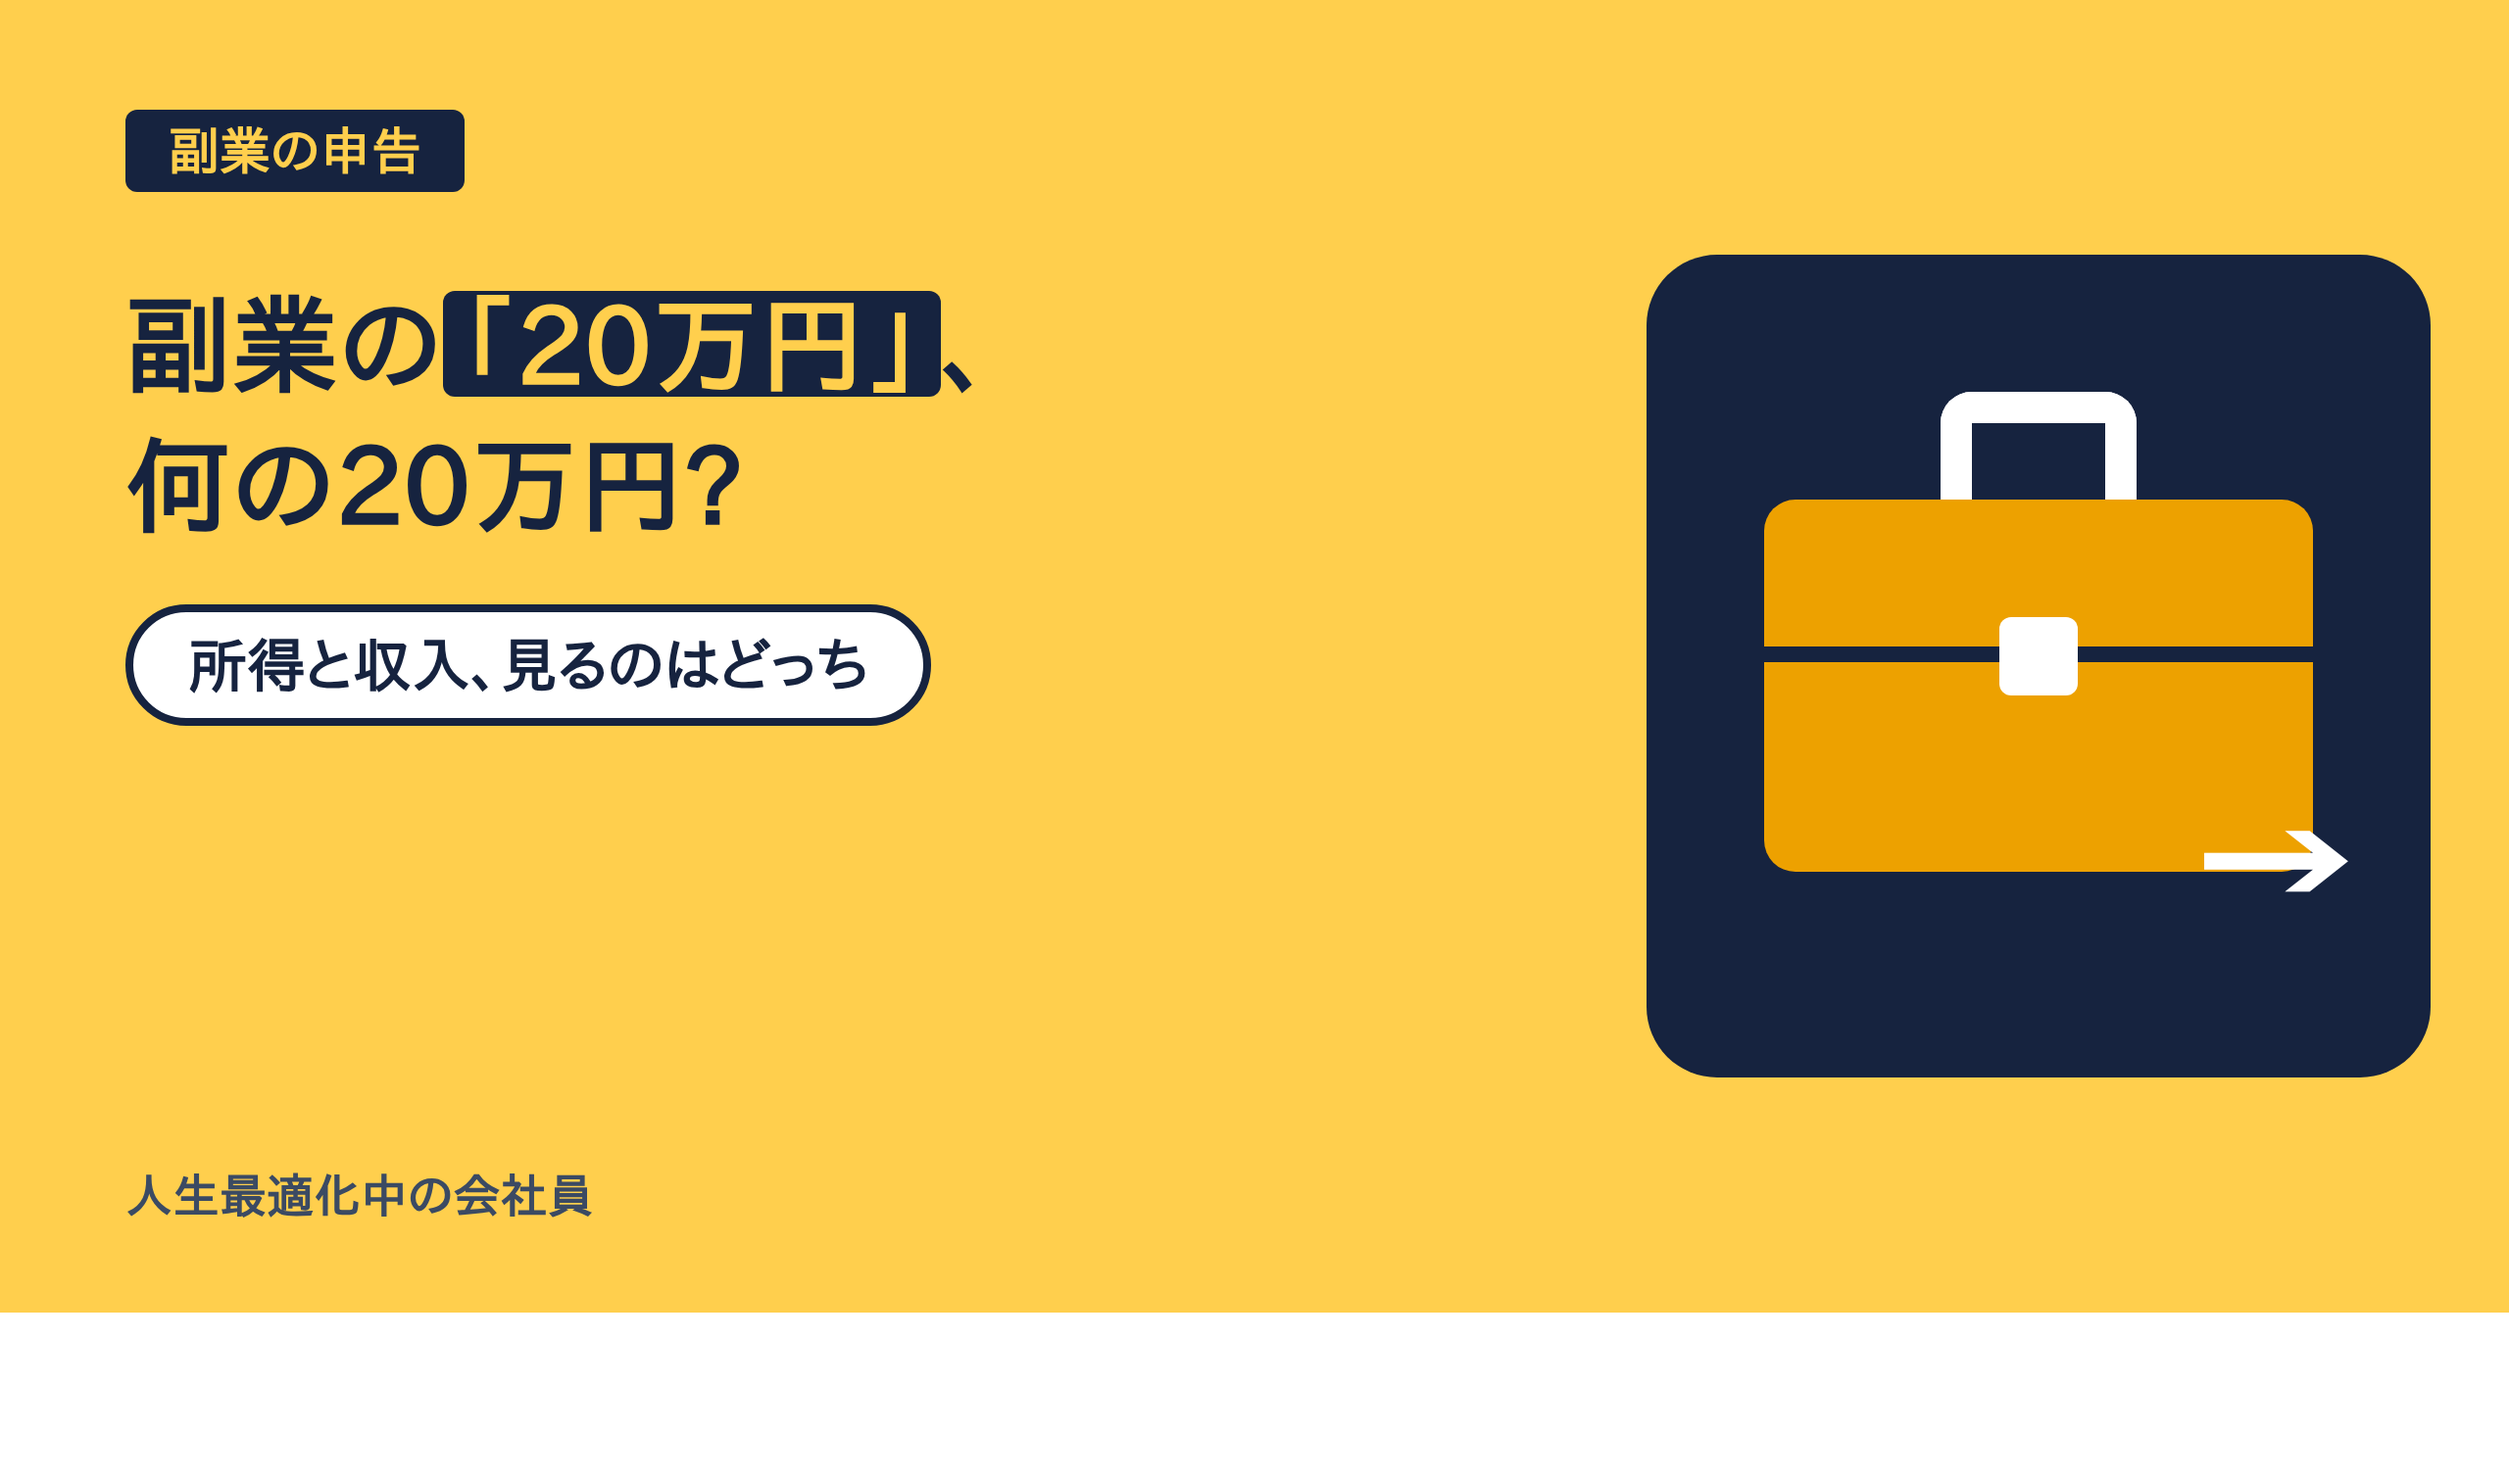
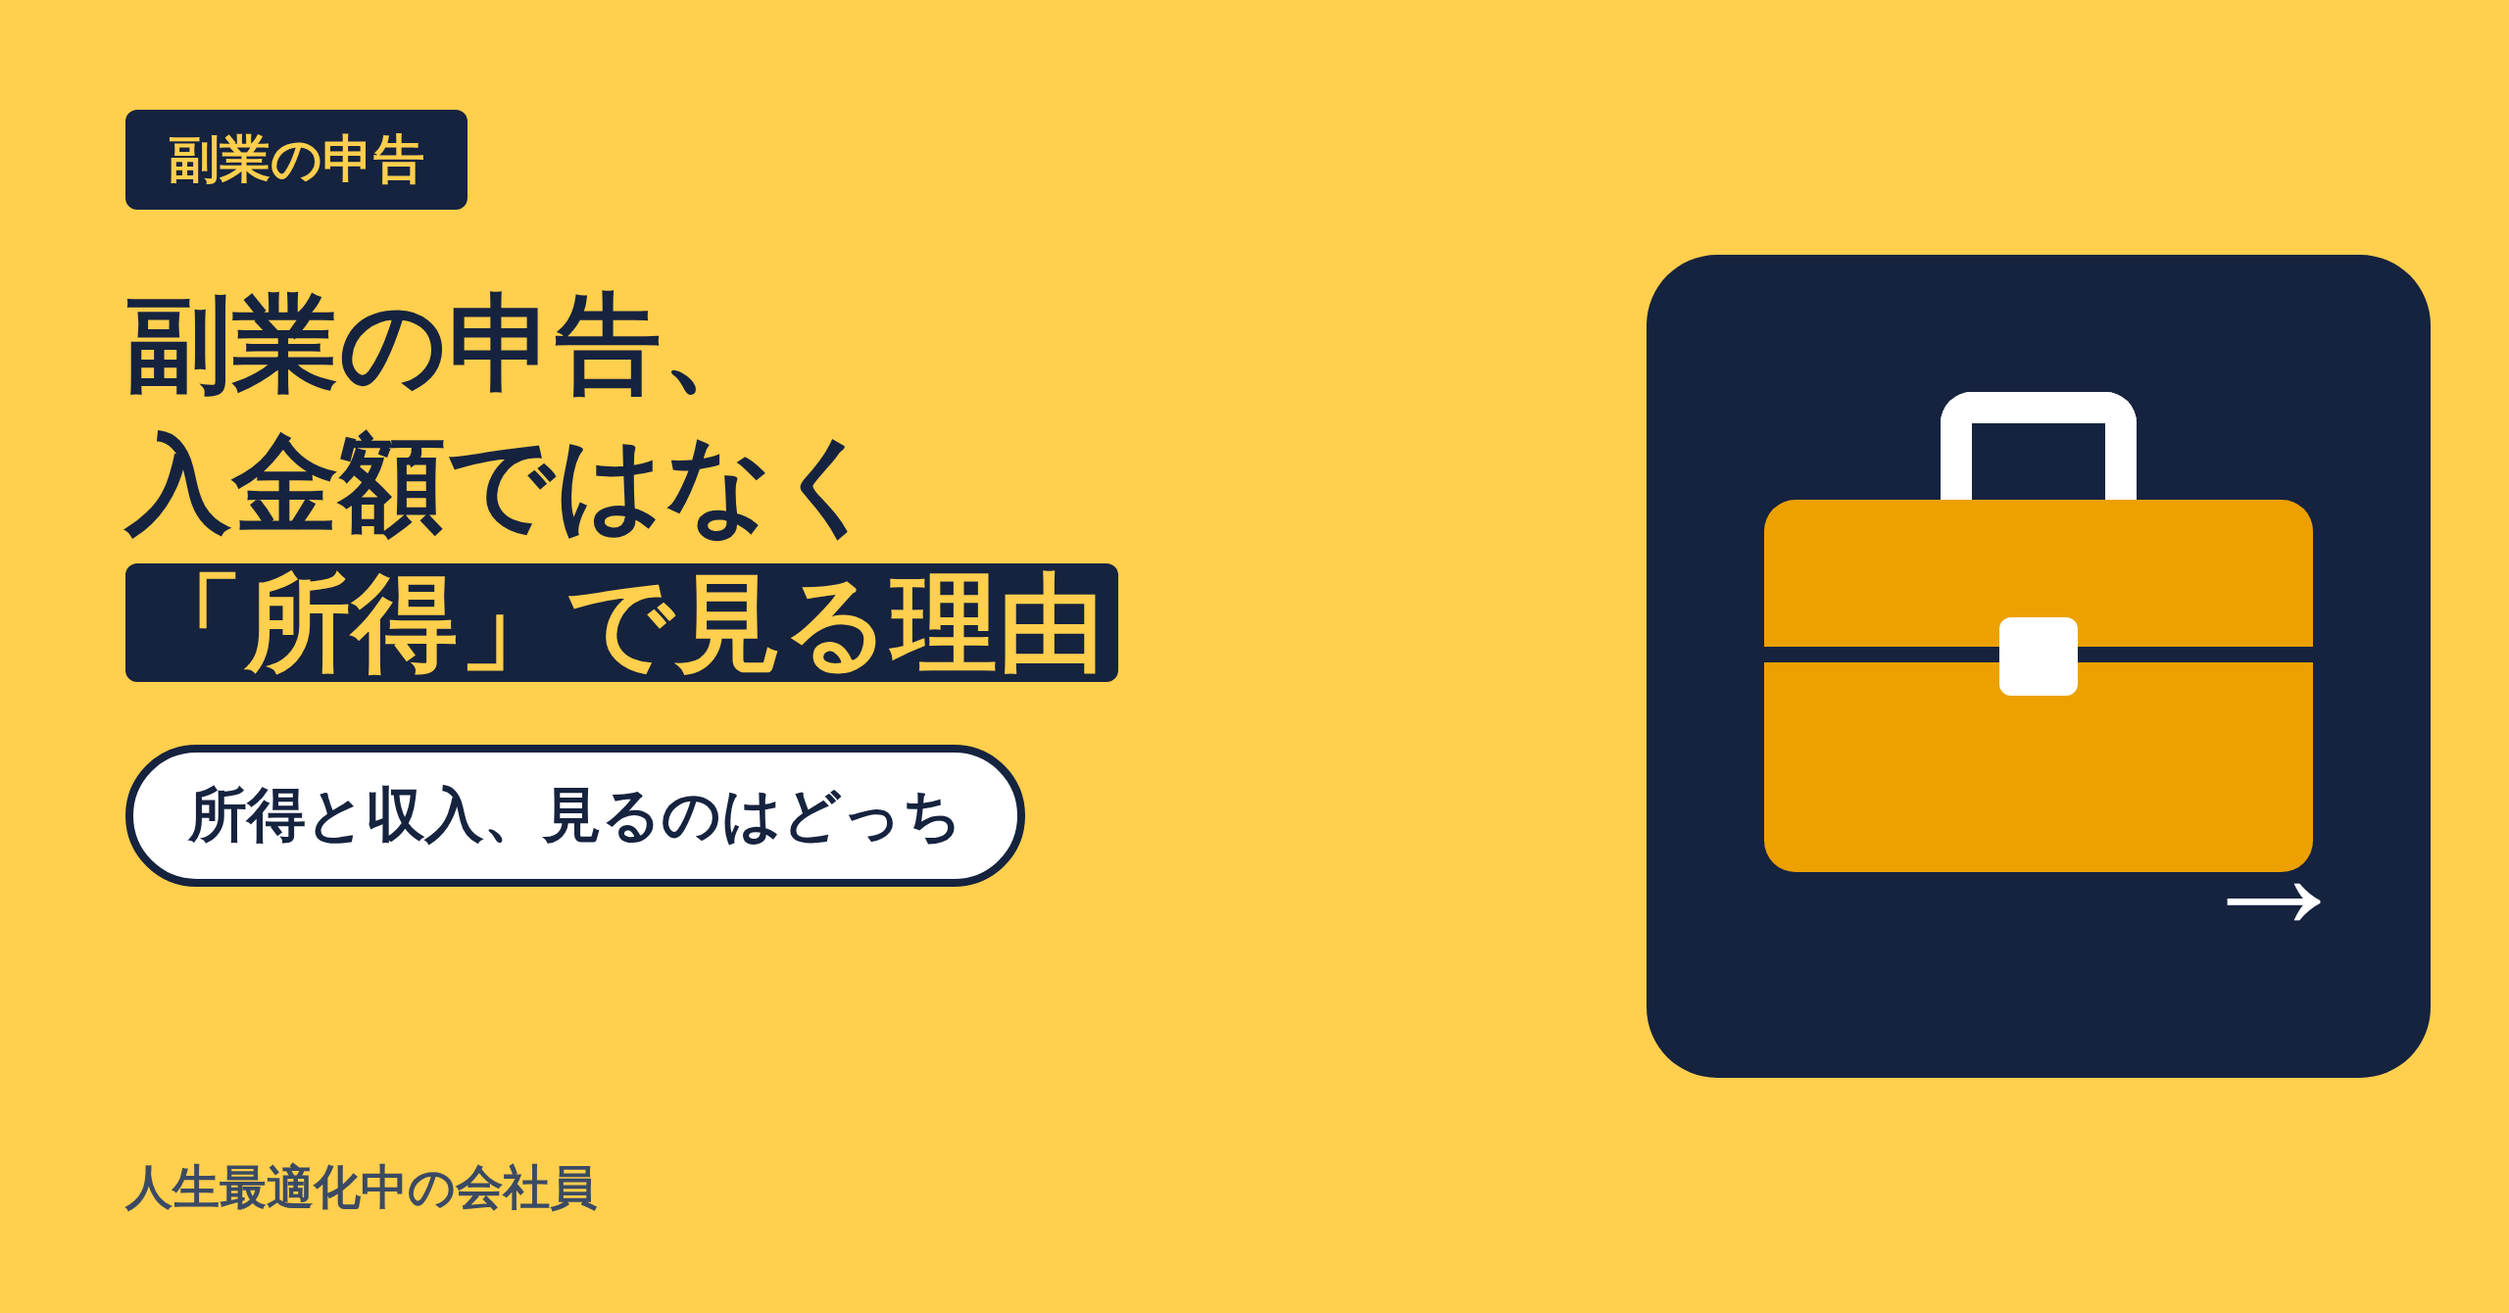
2026-10-24_001: fill experience blank; change title (owner: unclear); redo cover
Claude-Session: https://claude.ai/code/session_019jxzMkHZEL8EPC28xkVZW1

diff --git a/runs/2026-10-24_001/06_sns.md b/runs/2026-10-24_001/06_sns.md
@@ -1,12 +1,12 @@
-# SNS投稿案: 副業の「20万円」、何の20万円?
+# SNS投稿案: 副業の申告、入金額ではなく「所得」で見る理由
 
 ## X投稿案
-- 副業の「20万円」、何の20万円? 業務委託や原稿料などの副業は、入金の合計ではなく「収入−必要経費」の所得で見ます。国税庁の案内をもとに整理しました。【記事URL】
+- 副業の申告、入金額ではなく「所得」で見る理由 業務委託や原稿料などの副業は、入金の合計ではなく「収入−必要経費」の所得で見ます。国税庁の案内をもとに整理しました。【記事URL】
 - 例えば(架空の例)。収入30万円・経費12万円なら所得は18万円。収入25万円・経費3万円なら所得は22万円。収入が大きくても、所得は小さいことがあります。【記事URL】
 - 副業がアルバイトなど給与の場合は、数え方が別です。経費を引かず「収入」で見ます。自分はどちらか、国税庁のNo.1900で一度確かめておくと安心です。【記事URL】
 - 副業の赤字は、給与など他の所得から引けるのか。国税庁の雑所得のページでは、損益通算はできないと説明されています。記事で整理しました。【記事URL】
-- [告知・投稿当日用] 本日の記事です。「副業の「20万円」、何の20万円?」。収入と所得の違い、経費の記録、会社の副業ルール、申告前に確かめる5つを整理しました。【記事URL】
-- [告知・2日後のリマインド用] 先日公開した「副業の「20万円」、何の20万円?」です。副業で入金があった方は、申告の前に確かめる5つのチェックを置いています。よければどうぞ。【記事URL】
+- [告知・投稿当日用] 本日の記事です。「副業の申告、入金額ではなく「所得」で見る理由」。収入と所得の違い、経費の記録、会社の副業ルール、申告前に確かめる5つを整理しました。【記事URL】
+- [告知・2日後のリマインド用] 先日公開した「副業の申告、入金額ではなく「所得」で見る理由」です。副業で入金があった方は、申告の前に確かめる5つのチェックを置いています。よければどうぞ。【記事URL】
 
 ## Threads投稿案
 - 副業で初めての入金があって、通帳の数字が少し増えている。そこで「年20万円までは申告しなくていい」という話を思い出すけれど、何の20万円かはよく分からない。そんな人もいると思います。
@@ -26,18 +26,18 @@
 
 経費の記録は、日付・金額・何のためのお金かをメモしておくだけでも形になります。何が必要経費になるかの線引きは、迷うものを税務署や専門家に聞くと安心です。
 【記事URL】
-- [告知・投稿当日用] 今日の記事を公開しました。「副業の「20万円」、何の20万円?」。
+- [告知・投稿当日用] 今日の記事を公開しました。「副業の申告、入金額ではなく「所得」で見る理由」。
 
 業務委託・原稿料などの副業は「所得」、アルバイトなど給与の副業は「収入」で見る、という違いから整理しています。あわせて、経費の記録、会社の就業規則、住民税の確認先も。国税庁の公開情報をもとにした、一般的な情報です。
 【記事URL】
-- [告知・2日後のリマインド用] 先日の記事「副業の「20万円」、何の20万円?」のご案内です。
+- [告知・2日後のリマインド用] 先日の記事「副業の申告、入金額ではなく「所得」で見る理由」のご案内です。
 
 申告の前に確かめる5つ(収入と所得の区別、経費の記録、副業の種類、就業規則、住民税の確認)を、チェックリストにしました。全部に付かなくても大丈夫で、付かなかった項目が次にやることです。
 【記事URL】
 
 ## Instagram投稿案
 カルーセル案(1枚=短い文言)
-- 1枚目: 副業の「20万円」、何の20万円?
+- 1枚目: 副業の申告、入金額ではなく「所得」で見る理由
 - 2枚目: 国税庁の案内では、給与を1か所から受けている人は、給与と退職金以外の所得が年20万円を超えると所得税の確定申告が必要
 - 3枚目: 「所得」は、入金の合計ではなく「収入−必要経費」
 - 4枚目: 例えば(架空の例)収入30万円・経費12万円 → 所得18万円 / 収入25万円・経費3万円 → 所得22万円
@@ -48,7 +48,7 @@
 - 9枚目: 続きは記事で。プロフィールのリンクから(一般的な情報で、税務の助言ではありません)
 
 ## Instagramキャプション
-副業の「20万円」、何の20万円? 今日のnoteは、副業のお金の話です。
+副業の申告、入金額ではなく「所得」で見る理由 今日のnoteは、副業のお金の話です。
 
 国税庁の案内によると、会社から給与を1か所から受けている人は、給与と退職金以外の所得の合計が年20万円を超えると、所得税の確定申告が必要です。ここでいう「所得」は、入金の合計ではなく、収入から必要経費を引いた「もうけ」のことです。
 

diff --git a/runs/2026-10-24_001/05_revised.md b/runs/2026-10-24_001/05_revised.md
@@ -1,4 +1,4 @@
-# 副業の「20万円」、何の20万円?
+# 副業の申告、入金額ではなく「所得」で見る理由
 【画像:2026-10-24_cover.png】
 
 どうも、地道編集部です。今日は、副業のお金の話です。
@@ -84,12 +84,7 @@
 
 ## 僕自身の失敗
 
-【要入力:僕自身の失敗(副業の収入・申告について)】
-
-書くとよい失敗の例(例です。実際の体験に合うものだけ使ってください):
-- 「20万円」を、入金の合計のことだと思っていた
-- 副業のお金の記録を、まとめて後から付けようとして困った
-- 会社の就業規則を、確認しないまま副業を考えた
+「副業は今頑張ってる、新卒だから今はメインの仕事覚えるのと同時に、会社に依存しないスキルを身につけようとしている。」
 
 ## まとめ
 
@@ -126,3 +121,5 @@
 - 問題15: 失敗例の1つ目を「「20万円」を、入金の合計のことだと思っていた」だけにした。
 - 問題16: 執筆メモを削除。内容はauthor_notes.md側に置く必要があるが、このAgentの権限外のため未対応(呼び出し元で更新が必要)。
 - 校正: 「〜と考えられます」を2か所とも言い切りに変更。「先に答えを書きます」「流れにすると、次のとおりです」「ここまでを、チェックリストにまとめます」を削除。まとめを5行から3行に絞った。「〜してください」の一部を「〜と安心です」「〜で確かめられます」に変更。あるあるの締めを変えた(「そんな人もいると思います」は導入の1回のみ)。「失敗3」の見出しを「見ていない」に統一。表記は「副業」「所得」「収入」「必要経費」「確定申告」で統一。
+- タイトル変更(2026-10-24、持ち主の指示「意味がわからない」): 「副業の「20万円」、何の20万円?」(「何の20万円」が読者に伝わりにくい)を、本文の中身(入金額ではなく所得で見る)に合う「副業の申告、入金額ではなく「所得」で見る理由」(22字)に変えた。見出し画像・SNS案の同じタイトルも直した。
+- 体験欄(2026-10-24): 持ち主の言葉1文だけを、そのまま反映した。誤字は見当たらず直していない。持ち主が書いていない理由・時期・数字は足していない。

diff --git a/runs/2026-10-24_001/author_notes.md b/runs/2026-10-24_001/author_notes.md
@@ -20,3 +20,7 @@
 - 給与(アルバイト)型の副業は「収入」で判定、業務委託などは「所得」で判定、と分けて書いた(国税庁 No.1900)。
 - 住民税は、国税庁の公的年金のページの注記が根拠。副業の場合は未確認と本文に書き、「市区町村に確認」にとどめた。
 - あいさつ・お礼は、前の2日と違う言い回しに変えた。
+
+## 体験の反映・タイトル変更(2026-10-24)
+- 「僕自身の失敗」は、持ち主が書いた1文だけを、そのまま反映した(誤字は見当たらず、直していない)。
+- タイトルを「副業の申告、入金額ではなく「所得」で見る理由」に変更した(持ち主の指示。元は「副業の「20万円」、何の20万円?」)。plans/2026-10-19/plan.yaml の10-24の title は元のまま。
